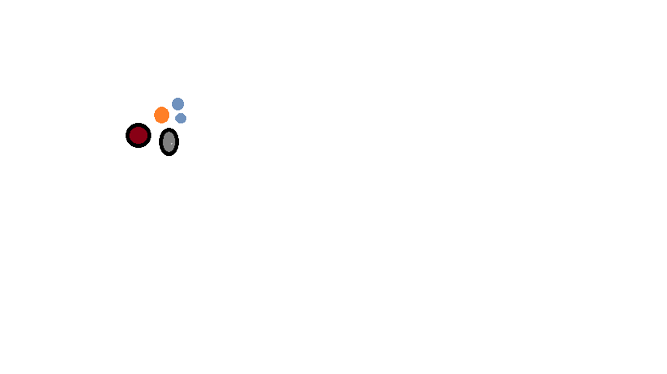
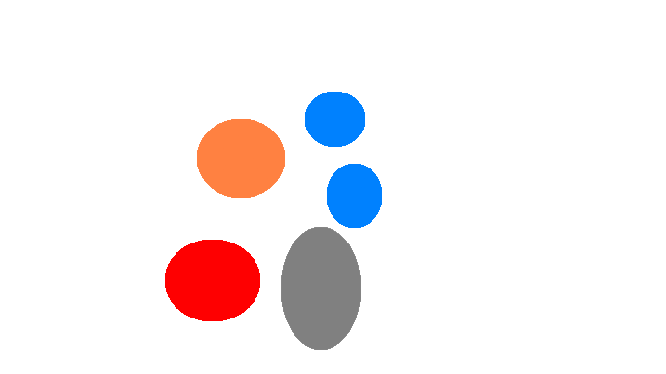
Contaminacion cluster

diff --git a/incidencias/src/app/map/components/mapa-contaminacion/mapa-contaminacion.component.ts b/incidencias/src/app/map/components/mapa-contaminacion/mapa-contaminacion.component.ts
@@ -26,6 +26,7 @@ export class MapaContaminacionComponent implements AfterViewInit {
   banderaPlayPausa: boolean = true;
   horario: string = "00:00:00";
   markers: any[]=[];
+  markerClouster: any;
   tamSecciones: number = 0;
   num:number;
   horas: string[] = ["00:00:00", "01:00:00", "02:00:00", "03:00:00", "04:00:00", "05:00:00", "06:00:00", "07:00:00", "08:00:00",  "09:00:00", "10:00:00",  "11:00:00", "12:00:00", "13:00:00", "14:00:00", "15:00:00", "16:00:00", "17:00:00", "18:00:00","19:00:00","20:00:00", "21:00:00", "22:00:00", "23:00:00"]
@@ -36,63 +37,63 @@ export class MapaContaminacionComponent implements AfterViewInit {
   //Iconos
     IconNO = L.icon({
         iconUrl: '../.././assets/NO.png', 
-        iconSize: [50, 50],
+        iconSize: [55, 55],
         iconAnchor: [30, 30],
         popupAnchor: [-15, -35]
     });
     
     IconNO2 = L.icon({
         iconUrl: '../.././assets/NO2.png',
-        iconSize: [30, 30],
+        iconSize: [55, 55],
         iconAnchor: [30, 30],
         popupAnchor: [-15, -35]
     });
     
     IconNOx = L.icon({
         iconUrl: '../.././assets/NOx.png',
-        iconSize: [30, 30],
+        iconSize: [55, 55],
         iconAnchor: [30, 30],
         popupAnchor: [-15, -35]
     });
 
     IconCO = L.icon({
         iconUrl: '../.././assets/CO.png', 
-        iconSize: [30, 30],
+        iconSize: [55, 55],
         iconAnchor: [30, 30],
         popupAnchor: [-15, -35]
     });
     
     IconO3 = L.icon({
         iconUrl: '../.././assets/O3.png',
-        iconSize: [30, 30],
+        iconSize: [55, 55],
         iconAnchor: [30, 30],
         popupAnchor: [-15, -35]
     });
     
     IconPM25 = L.icon({
         iconUrl: '../.././assets/PM2,5.png',
-        iconSize: [30, 30],
+        iconSize: [55, 55],
         iconAnchor: [30, 30],
         popupAnchor: [-15, -35]
     });
     
     IconPM10 = L.icon({
         iconUrl: '../.././assets/PM10.png', 
-        iconSize: [30, 30],
+        iconSize: [55, 55],
         iconAnchor: [30, 30],
         popupAnchor: [-15, -35]
     });
     
     IconSO2 = L.icon({
         iconUrl: '../.././assets/SO2.png',
-        iconSize: [30, 30],
+        iconSize: [55, 55],
         iconAnchor: [30, 30],
         popupAnchor: [-15, -35]
     });
     
     IconPMCO = L.icon({
         iconUrl: '../.././assets/PMCO.png',
-        iconSize: [30, 30],
+        iconSize: [55, 55],
         iconAnchor: [30, 30],
         popupAnchor: [-15, -35]
     });
@@ -128,7 +129,7 @@ export class MapaContaminacionComponent implements AfterViewInit {
 
       L.tileLayer('https://api.mapbox.com/styles/v1/{id}/tiles/{z}/{x}/{y}?access_token=pk.eyJ1IjoibWFwYm94IiwiYSI6ImNpejY4NXVycTA2emYycXBndHRqcmZ3N3gifQ.rJcFIG214AriISLbB6B5aw', {
           maxZoom: 18,
-          minZoom: 10,
+          minZoom: 7,
           attribution: 'Map data &copy; <a href="https://www.openstreetmap.org/">OpenStreetMap</a> contributors, ' +
               '<a href="https://creativecommons.org/licenses/by-sa/2.0/">CC-BY-SA</a>, ' +
               'Imagery © <a href="https://www.mapbox.com/">Mapbox</a>',
@@ -141,11 +142,13 @@ export class MapaContaminacionComponent implements AfterViewInit {
   }//FIN OnInit
 
   controlAtras(event: Event) {
-    
+    event.preventDefault();
+    this.limpiar();
   }
 
   controlAdelante(event: Event) {
-      
+    event.preventDefault();
+    this.empezarDatos(this.fechaConsulta); 
   }
 
   
@@ -156,10 +159,10 @@ export class MapaContaminacionComponent implements AfterViewInit {
     console.log(this.fechaConsulta);
     this.rango = 0;
     this.estaciones() ;
-    this.enpezarDatos(this.fechaConsulta);   
+    this.empezarDatos(this.fechaConsulta);   
   }
 
-  enpezarDatos(fecha){
+  empezarDatos(fecha){
         let fechaC = fecha;
         this.mapServiceU.getContaminacion(fechaC).subscribe((data: any) => {
             this.listaContaminacion = Object.values(data);
@@ -170,54 +173,73 @@ export class MapaContaminacionComponent implements AfterViewInit {
                     this.tamSecciones ++;
             }
             let marker;
+            let markers = L.markerClusterGroup();
+   
             for (let i = 0; i < this.tamSecciones; i++) {
             let latitud = parseFloat(this.lista[0][this.listaContaminacion[0]["datos"]["contaminacion"][i][3]]["latitud"] )
             let longitud = parseFloat(this.lista[0][this.listaContaminacion[0]["datos"]["contaminacion"][i][3]]["longitud"]) 
             
             switch(this.listaContaminacion[0]["datos"]["contaminacion"][i][4]) { 
                 case 'NO': { 
-                    marker = new L.marker([latitud, longitud], { icon: this.IconNO }).addTo(this.map).bindPopup( " °C: " );                  
+                    marker = new L.marker([latitud, longitud], { icon: this.IconNO }).bindPopup( "Particula: Monóxido de nitrógeno  valor: "+ this.listaContaminacion[0]["datos"]["contaminacion"][i][5]);                  
                     break;
                 } 
                 case 'NO2': { 
-                    marker = new L.marker([latitud, longitud], { icon: this.IconNO2 }).addTo(this.map).bindPopup( " °C: " );                  
+                    marker = new L.marker([latitud, longitud], { icon: this.IconNO2 }).bindPopup( "Particula: Dióxido de nitrógeno valor: "+ this.listaContaminacion[0]["datos"]["contaminacion"][i][5] );                  
                     break;
                 }
                 case 'NOx': { 
-                    marker = new L.marker([latitud, longitud], { icon: this.IconNOx }).addTo(this.map).bindPopup( " °C: " );                  
+                    marker = new L.marker([latitud, longitud], { icon: this.IconNOx }).bindPopup( "Particula: Óxido de nitrógeno valor: "+ this.listaContaminacion[0]["datos"]["contaminacion"][i][5] );                  
                     break;
                 } 
                 case 'O3': {
-                    marker = new L.marker([latitud, longitud], { icon: this.IconO3 }).addTo(this.map).bindPopup( " °C: " );                   
+                    marker = new L.marker([latitud, longitud], { icon: this.IconO3 }).bindPopup( "Particula: Ozono valor: "+ this.listaContaminacion[0]["datos"]["contaminacion"][i][5] );                   
                     break;
                 } 
                 case 'PM2.5': { 
-                    marker = new L.marker([latitud, longitud], { icon: this.IconPM25 }).addTo(this.map).bindPopup( " °C: " );                  
+                    marker = new L.marker([latitud, longitud], { icon: this.IconPM25 }).bindPopup( "Particula: Materia particulada 2.5 valor: "+ this.listaContaminacion[0]["datos"]["contaminacion"][i][5] );                  
                     break;
                 } 
                 case 'PM10': { 
-                    marker = new L.marker([latitud, longitud], { icon: this.IconPM10 }).addTo(this.map).bindPopup( " °C: " );                  
+                    marker = new L.marker([latitud, longitud], { icon: this.IconPM10 }).bindPopup( "Particula: Materia particulada 10 valor: "+ this.listaContaminacion[0]["datos"]["contaminacion"][i][5] );                  
                     break;
                 } 
                 case 'PMCO': {
-                    marker = new L.marker([latitud, longitud], { icon: this.IconPMCO }).addTo(this.map).bindPopup( " °C: " );                   
+                    marker = new L.marker([latitud, longitud], { icon: this.IconPMCO }).bindPopup( "Particula: Nivel de particulado de fracción gruesa  valor: "+ this.listaContaminacion[0]["datos"]["contaminacion"][i][5] );                   
                     break;
                 } 
                 case 'SO2': { 
-                    marker = new L.marker([latitud, longitud], { icon: this.IconSO2 }).addTo(this.map).bindPopup( " °C: " );                  
+                    marker = new L.marker([latitud, longitud], { icon: this.IconSO2 }).bindPopup( "Particula: Dióxido De Azufre valor: "+ this.listaContaminacion[0]["datos"]["contaminacion"][i][5] );                  
                     break;
                 } 
                 case 'CO':{
-                    marker = new L.marker([latitud, longitud], { icon: this.IconCO }).addTo(this.map).bindPopup( " °C: " );                  
+                    marker = new L.marker([latitud, longitud], { icon: this.IconCO }).bindPopup( "Particula: Monóxido de carbono  valor: "+ this.listaContaminacion[0]["datos"]["contaminacion"][i][5] );                  
+                    //marker = new L.marker([latitud, longitud], { icon: this.IconCO }).addTo(this.map).bindPopup( "Particula: Monóxido de carbono  valor: "+ this.listaContaminacion[0]["datos"]["contaminacion"][i][5] );                  
                     break;
                 }
                 default: { 
                    break; 
                 } 
              } 
+            
+            markers.addLayer(marker);
             this.markers.push(marker);
+            this.markerClouster= markers;  
+            markers.addTo(this.map);
             }
+            this.activarBtn = false;
         });
+    }
+
+    limpiar(){
+        
+        for (let i = 0; i < this.tamSecciones; i++) {
+            this.map.removeLayer(this.markers[i]);
+        }     
+        this.map.removeLayer(this.markerClouster);
+        this.markers = [];
+        
+           
     }
   estaciones(){
     this.mapServiceU.getEstaciones().subscribe((data: any) => {
@@ -231,7 +253,7 @@ export class MapaContaminacionComponent implements AfterViewInit {
 
   fechaTraficoLineas() {
       let that = this;
-
+    
       if (this.banderaMapa) {
           
       }

diff --git a/incidencias/src/app/services/map.service.ts b/incidencias/src/app/services/map.service.ts
@@ -5,8 +5,8 @@ import { HttpClient } from "@angular/common/http";//para comunicar con nuestra A
   providedIn: 'root'
 })
 export class MapService {
-  readonly URL_API= 'http://localhost:3000';
-  //readonly URL_API= 'http://palancar.izt.uam.mx:4005';
+  //readonly URL_API= 'http://localhost:3000';
+  readonly URL_API= 'http://palancar.izt.uam.mx:4005';
 
   constructor(private http:HttpClient) { }
 
